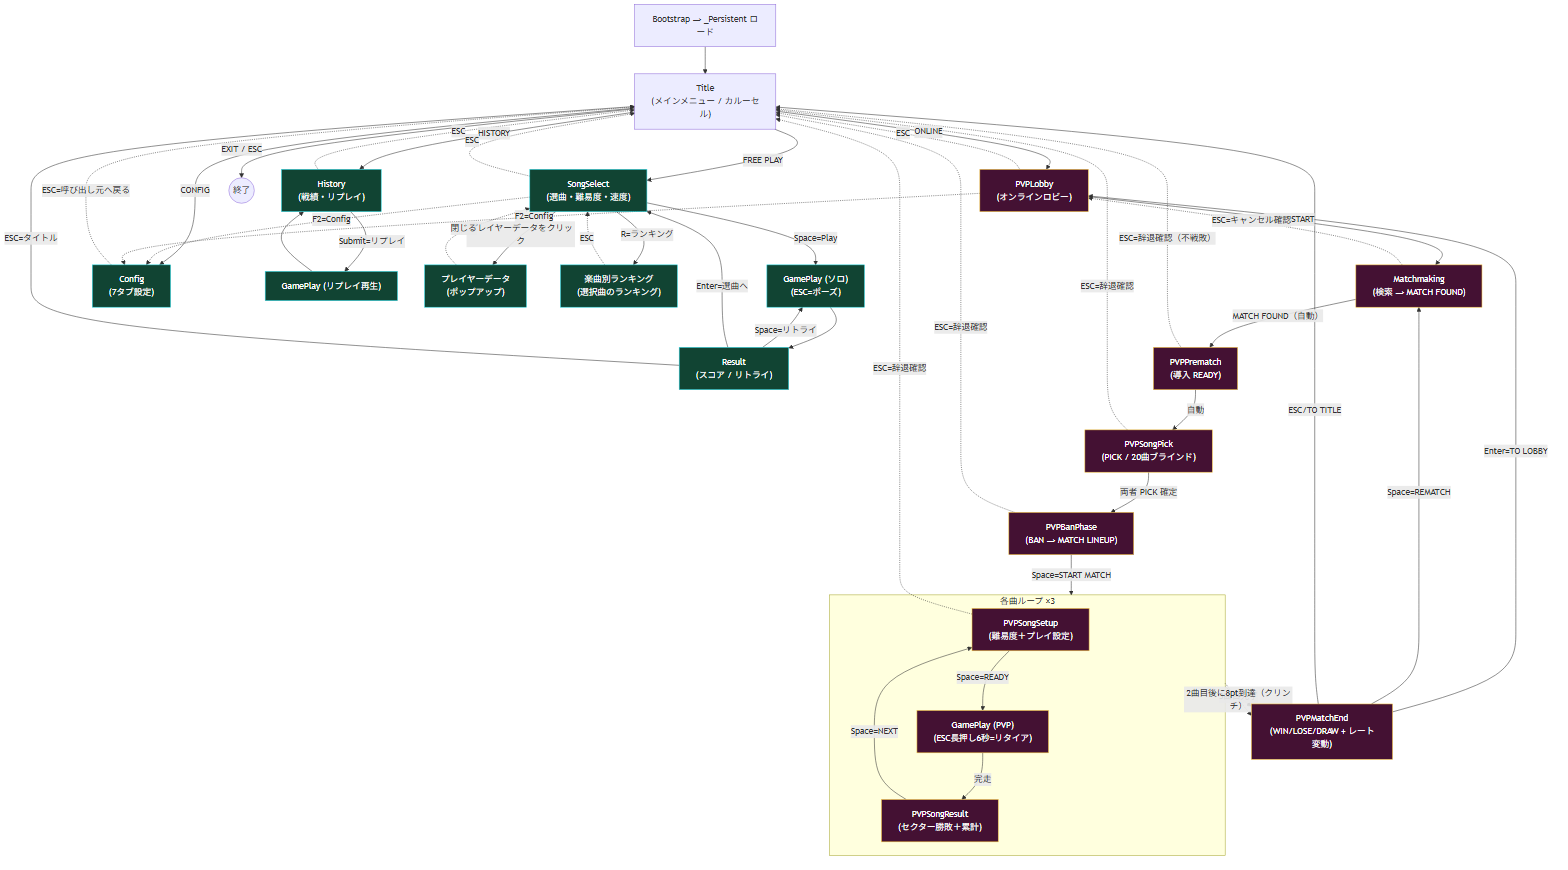
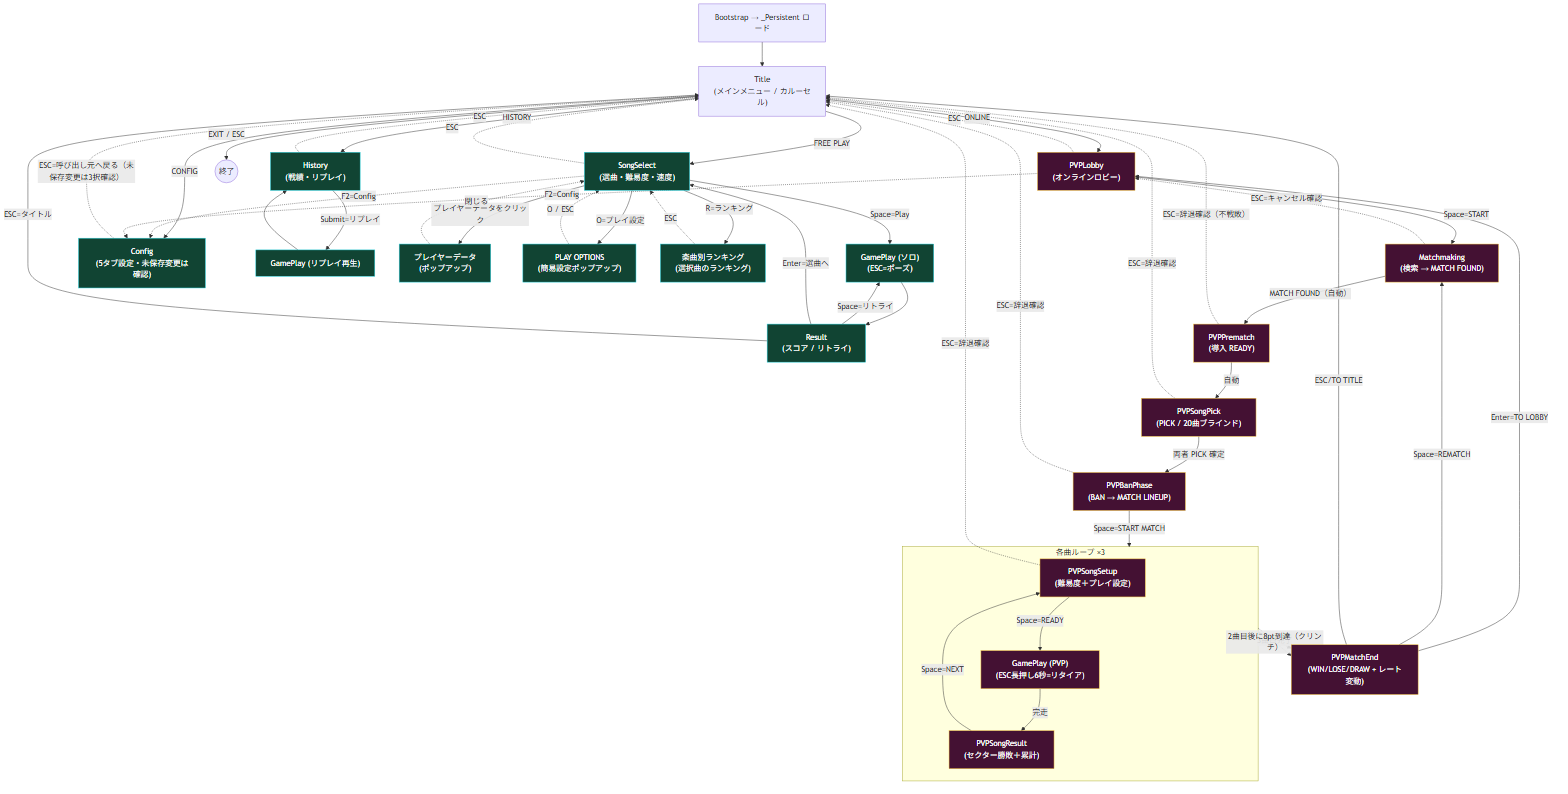
画面遷移図を実装に追従: PLAY OPTIONS追加・Config 5タブ+未保存3択確認を明記
- SongSelect → PLAY OPTIONS(簡易設定ポップアップ、O=開閉)を図に追加
- Config ノードを「5タブ設定・未保存変更は確認」表記に更新
- Config の ESC エッジに「未保存変更は3択確認」を明記
- PNG 再生成 (mermaid-cli)

diff --git a/docs/pvp/screen_flow.md b/docs/pvp/screen_flow.md
@@ -2,7 +2,8 @@
 
 > 正本フロー（PVP対戦）: `C:\Users\CaSte\OneDrive\デスクトップ\フロー.png`（ユーザー提供）
 > 配色規約: **自分 = シアン `#2BD9E6`（左） / 相手 = レッド `#F24D6B`（右）**、基調は DJMAX 風
-> 最終更新: 2026-06-07 — ①Config を SongSelect / PVPLobby からも開けるように（ESC は呼び出し元へ戻る） ②PVPMatchEnd への遷移ラベルを「3曲目完了」と「2曲目後8ptクリンチ」の2系統で明確化 ③SongSelect にプレイヤーデータポップアップ（新規） ④SongSelect に楽曲別ランキング画面（新規）を追加
+> 最終更新: 2026-06-07 (2回目) — 図を実装に追従: Config を**5タブ**表記に変更（モック適用・§10）+ **未保存変更の3択確認**を明記（§10-1）+ SongSelect に **PLAY OPTIONS（簡易設定ポップアップ・O キー）** を追加（§11）。
+> 同日(1回目): ①Config 入口3箇所化（ESC=呼び出し元復帰） ②PVPMatchEnd 到達2系統明確化 ③プレイヤーデータポップアップ ④楽曲別ランキング画面
 
 このドキュメントは「画面遷移」と「各画面の操作（キーボード / ESC / ゲームパッド / ボタン）」を一体で定義する。
 凡例: **(済)** = 現状コードに実装済み / **(新)** = 本仕様で新規に追加する操作。
@@ -44,9 +45,10 @@ flowchart TD
     PlayS["GamePlay (ソロ)<br/>(ESC=ポーズ)"]
     Result["Result<br/>(スコア / リトライ)"]
     Hist["History<br/>(戦績・リプレイ)"]
-    Conf["Config<br/>(5タブ設定)"]
+    Conf["Config<br/>(5タブ設定・未保存変更は確認)"]
     Replay["GamePlay (リプレイ再生)"]
     PData["プレイヤーデータ<br/>(ポップアップ)"]
+    PlayOpt["PLAY OPTIONS<br/>(簡易設定ポップアップ)"]
     Rank["楽曲別ランキング<br/>(選択曲のランキング)"]
 
     %% ── PVP系 ──
@@ -83,6 +85,8 @@ flowchart TD
 
     SongSel -->|プレイヤーデータをクリック| PData
     PData -.->|閉じる| SongSel
+    SongSel -->|O=プレイ設定| PlayOpt
+    PlayOpt -.->|O / ESC| SongSel
     SongSel -->|R=ランキング| Rank
     Rank -.->|ESC| SongSel
 
@@ -90,7 +94,7 @@ flowchart TD
     Hist -.->|ESC| Title
     SongSel -.->|F2=Config| Conf
     Lobby -.->|F2=Config| Conf
-    Conf -.->|ESC=呼び出し元へ戻る| Title
+    Conf -.->|"ESC=呼び出し元へ戻る（未保存変更は3択確認）"| Title
 
     Lobby -->|Space=START| MM
     MM -->|MATCH FOUND（自動）| Pre
@@ -113,7 +117,7 @@ flowchart TD
 
     classDef solo fill:#143,stroke:#2BD9E6,color:#fff;
     classDef pvp  fill:#413,stroke:#F7C740,color:#fff;
-    class SongSel,PlayS,Result,Hist,Conf,Replay,PData,Rank solo;
+    class SongSel,PlayS,Result,Hist,Conf,Replay,PData,PlayOpt,Rank solo;
     class Lobby,MM,Pre,Pick,Ban,Setup,PlayP,SongRes,End pvp;
 ```
 
